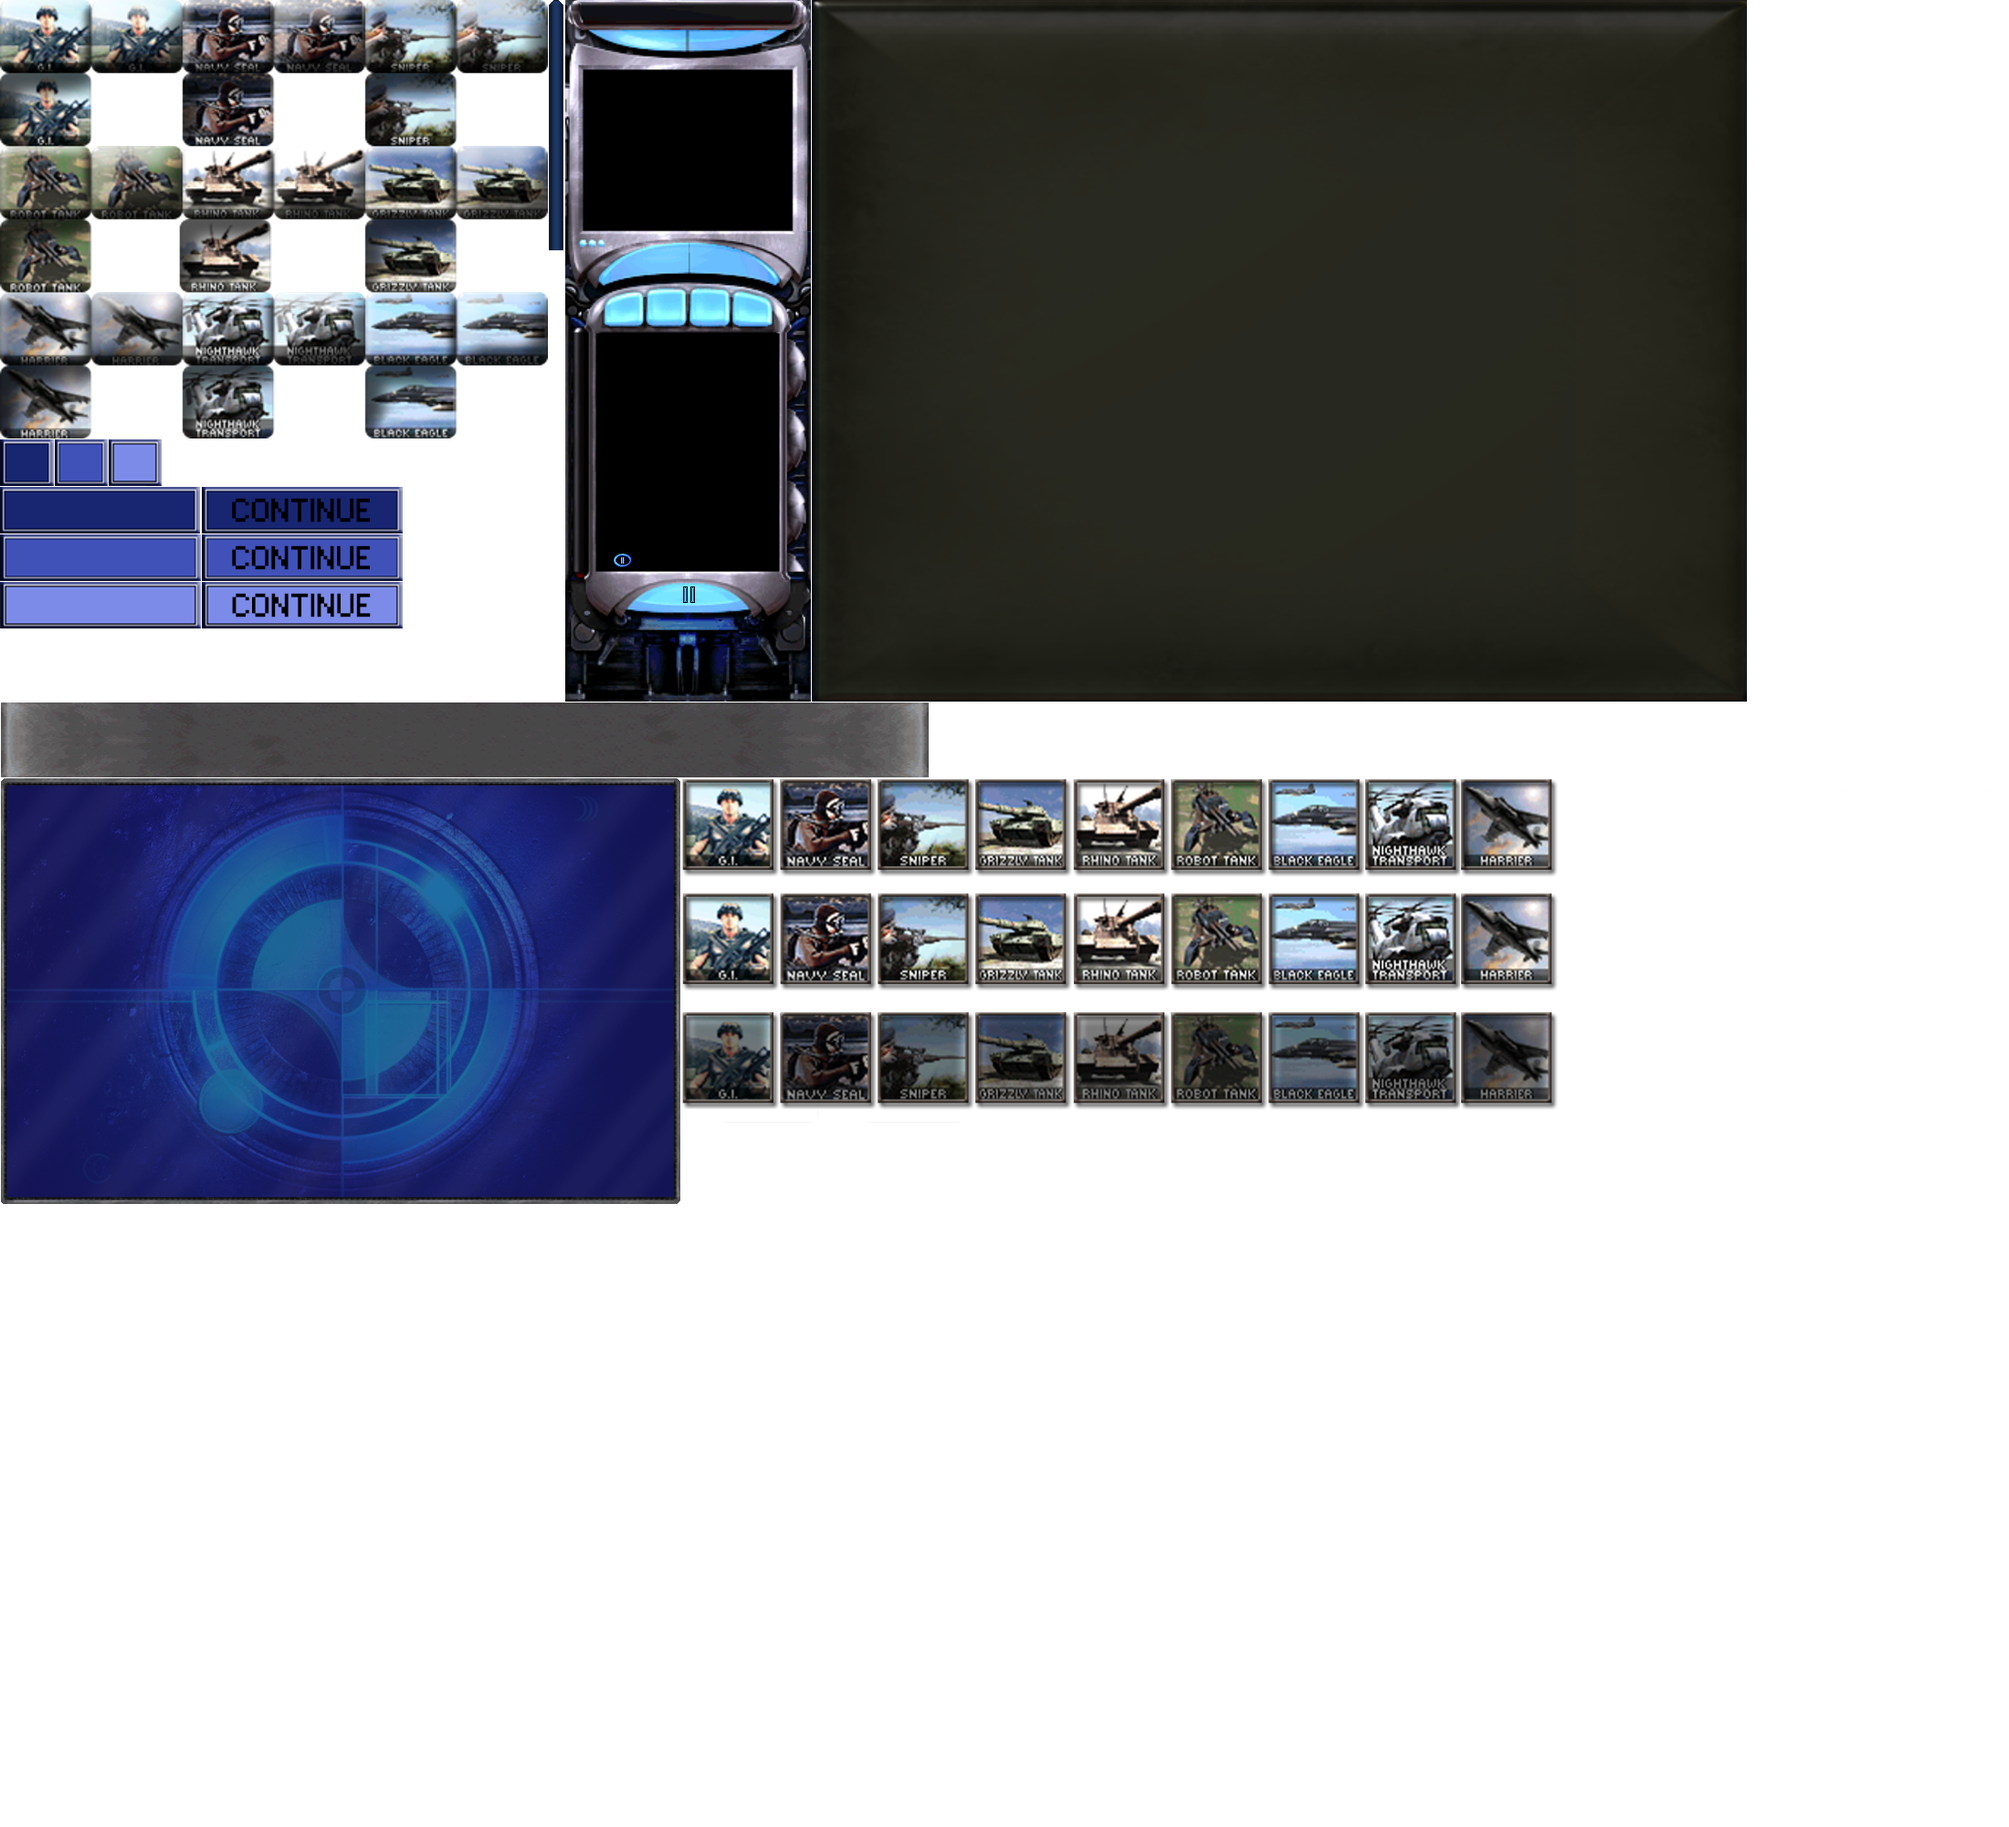
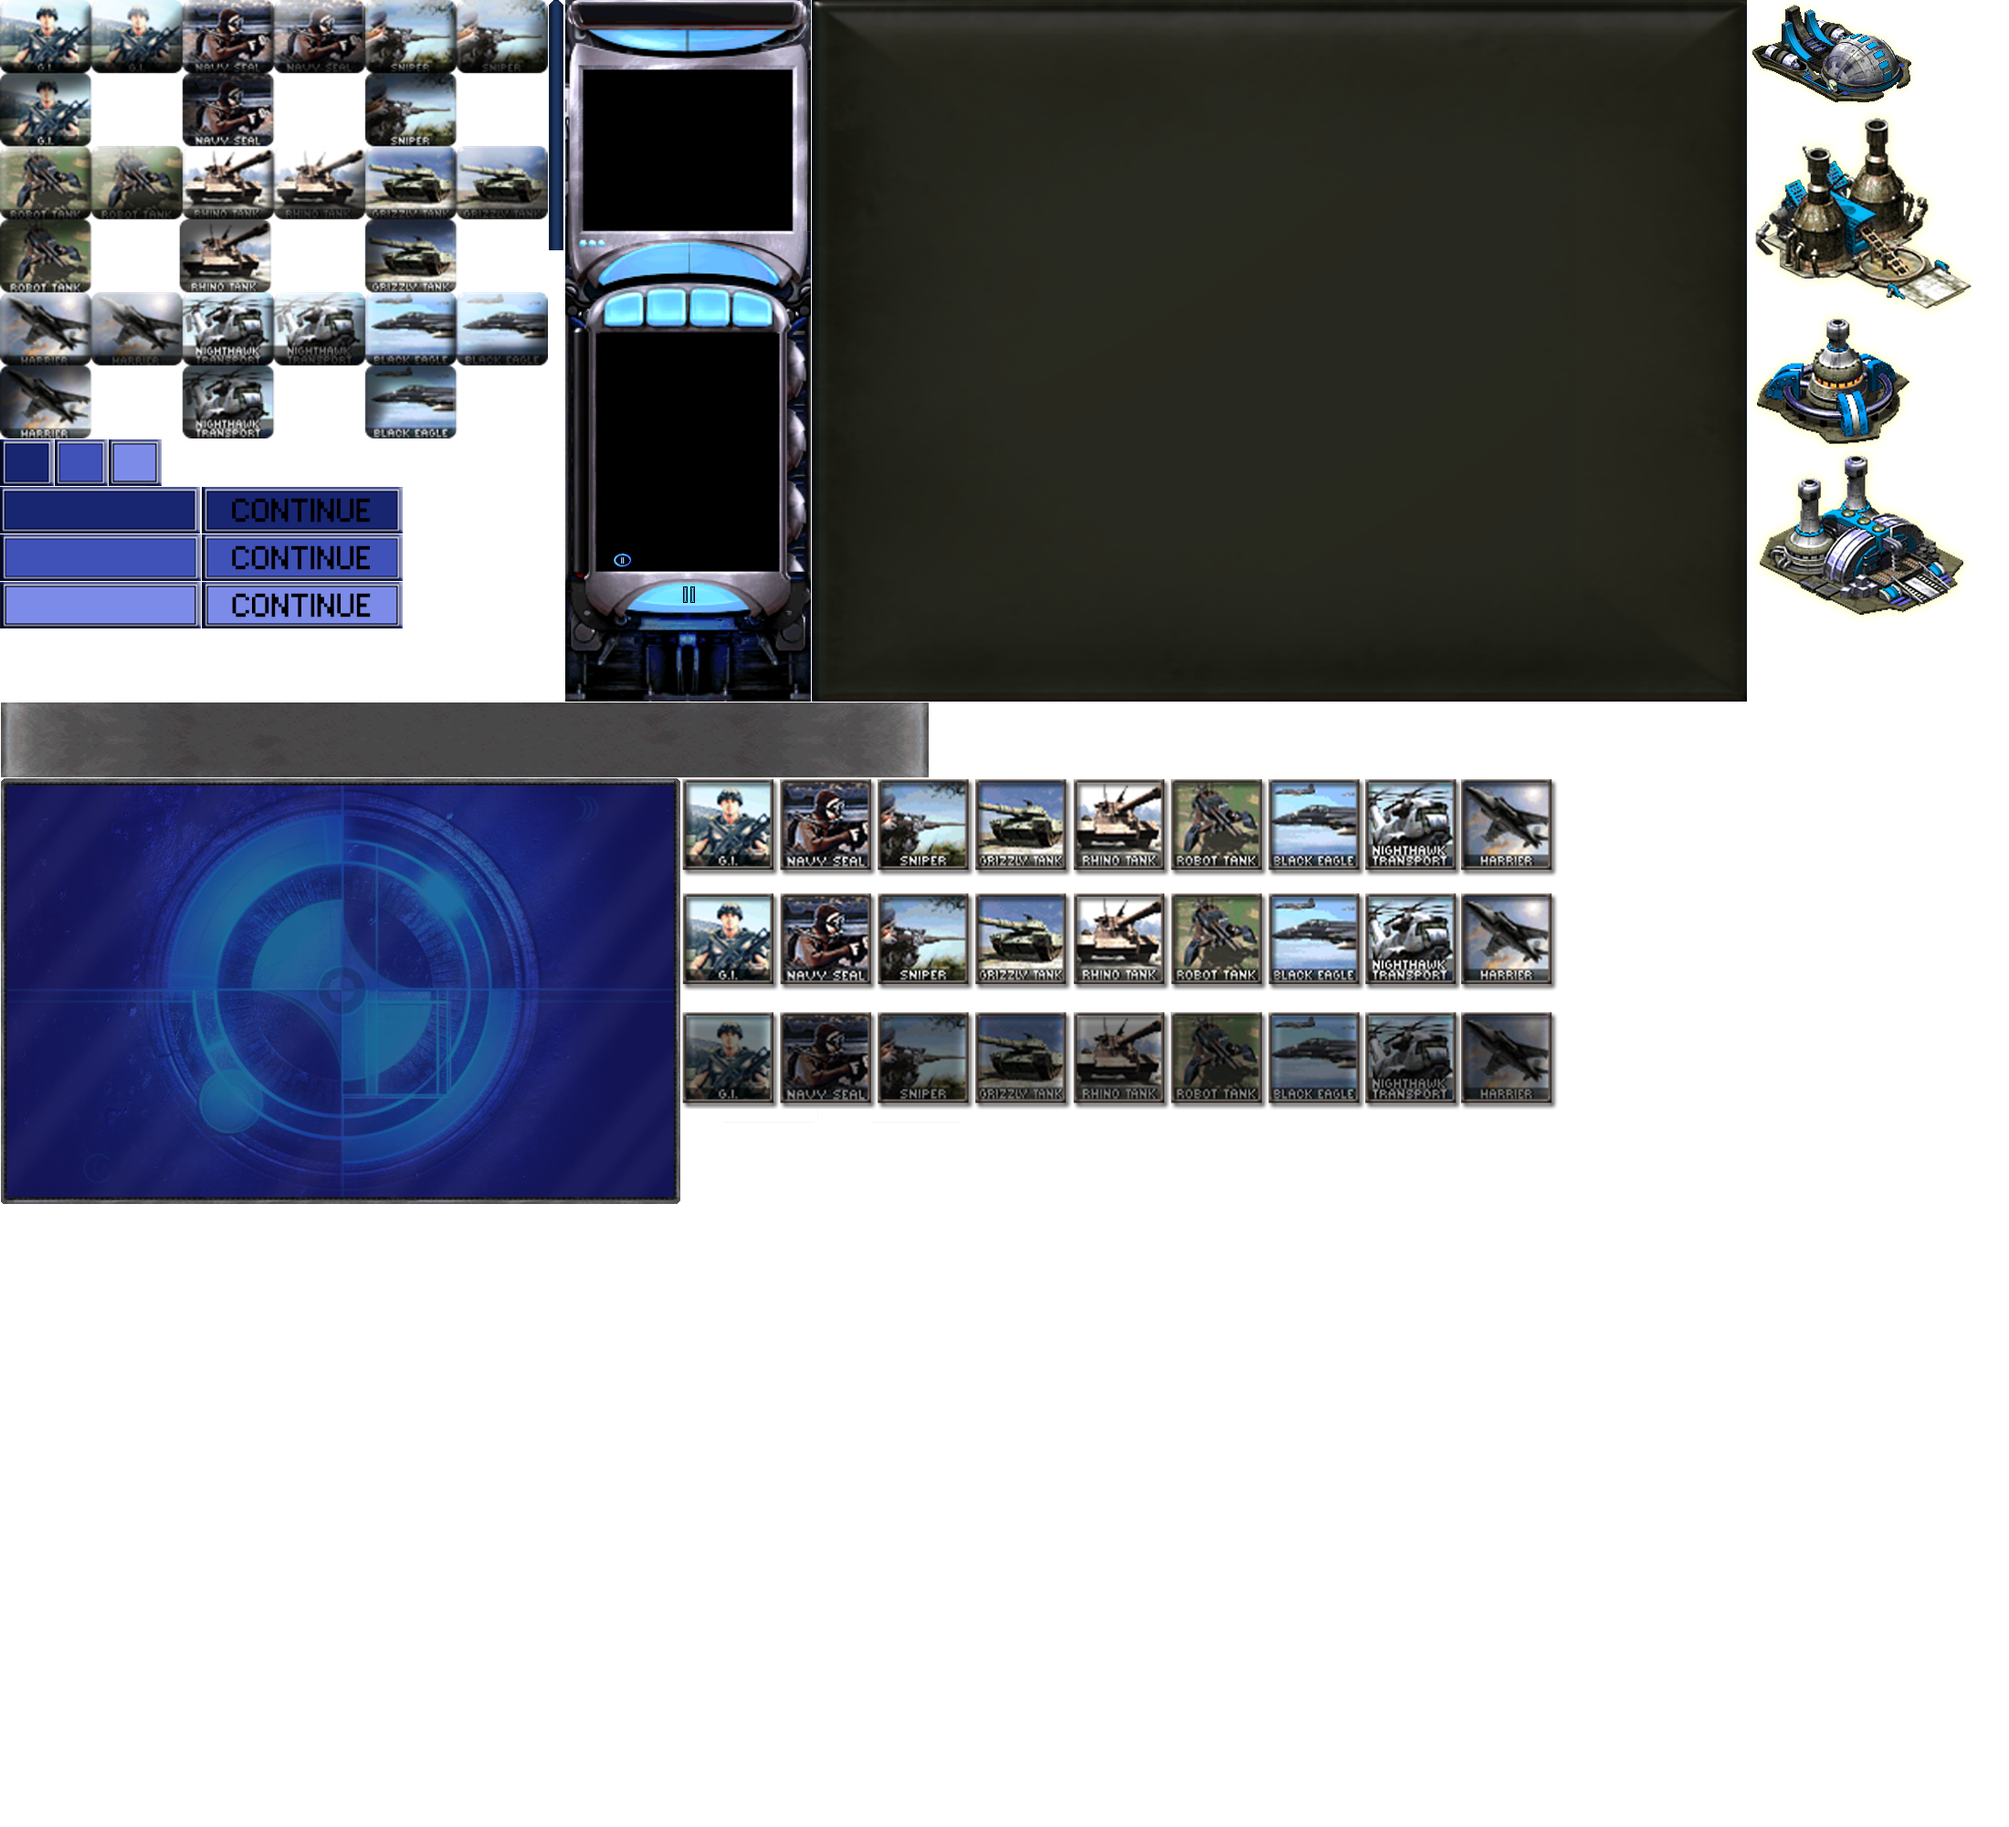
Added Lose Screen and Building Image

Changed region(s): [[0.8655, 0.0, 0.9891, 0.341]]

diff --git a/Motor2D/BattleScene.cpp b/Motor2D/BattleScene.cpp
@@ -24,6 +24,8 @@
 #include "EncounterTree.h"
 #include "EncounterNode.h"
 #include "UIImage.h"
+#include <time.h>
+#include <stdlib.h>
 
 
 BattleScene::BattleScene() : Scene()
@@ -68,13 +70,8 @@ bool BattleScene::Start()
 	test_core = App->entity_manager->CreateCore(1, { 30,750 }, test_deck, FACTION_RUSSIAN);
 	test_enemy_core = App->entity_manager->CreateCore(App->game_manager->GetEncounterTree()->GetCurrentNode()->GetEncounterType(), { 25,85 }, enemy_deck, FACTION_AMERICAN);
 
-	unit_panel = App->gui->CreateImage({ 755,0 }, { 619,0,269,768 });
-	/*unit_button_one = App->gui->CreateButton({ 35, 365 }, test_core->GetCard(CN_FIRST)->button.anim, unit_panel);
-	unit_button_two = App->gui->CreateButton({ 135, 365 }, test_core->GetCard(CN_SECOND)->button.anim, unit_panel);
-	unit_button_three = App->gui->CreateButton({ 35, 445 }, test_core->GetCard(CN_THIRD)->button.anim, unit_panel);
-	unit_button_four = App->gui->CreateButton({ 135, 445 }, test_core->GetCard(CN_FOURTH)->button.anim, unit_panel);*/
-
-	energy_bar = App->gui->CreateBar({ 764, 358 }, { 601,0,16,274 }, test_core->GetEnergy());
+	//Initialize UI
+	StartUI();
 
 	return true;
 }
@@ -126,19 +123,17 @@ bool BattleScene::Update(float dt)
 		{
 			state = BattleSceneState::WIN;
 			App->PauseGame();
+			App->gui->EnableElement((UIElement*)win_panel_one);
 		}
 	}
 	break;
 	case BattleScene::BattleSceneState::WIN:
 	{
-		if (App->input->GetKey(SDL_SCANCODE_RETURN) == KEY_DOWN)
-			App->transition_manager->CreateFadeTransition(2.0f, true, SceneType::MAP, White);
 	}
 	break;
 	case BattleScene::BattleSceneState::LOSE:
 	{
-		if (App->input->GetKey(SDL_SCANCODE_RETURN) == KEY_DOWN)
-			App->transition_manager->CreateFadeTransition(2.0f, true, SceneType::MAP, White);
+		
 	}
 	break;
 	default:
@@ -177,21 +172,58 @@ bool BattleScene::GUIEvent(UIElement * element, GUI_Event gui_event)
 {
 	if (gui_event == GUI_Event::LEFT_CLICK_DOWN) {
 		if (element == unit_button_one) {
-			CreateDrag(CN_FIRST, element);
+			CreateDrag(test_core->GetCard(CN_FIRST)->type, element);
 		}
 		else if (element == unit_button_two) {
-			CreateDrag(CN_SECOND, element);
+			CreateDrag(test_core->GetCard(CN_SECOND)->type, element);
 		}
 		else if (element == unit_button_three) {
-			CreateDrag(CN_THIRD, element);
+			CreateDrag(test_core->GetCard(CN_THIRD)->type, element);
 		}
 		else if (element == unit_button_four) {
-			CreateDrag(CN_FOURTH, element);
+			CreateDrag(test_core->GetCard(CN_FOURTH)->type, element);
 		}
+		else if (element == win_continue_one) {
+			App->gui->DisableElement((UIElement*)win_panel_one);
+			App->gui->EnableElement((UIElement*)win_panel_two);
+		}
+		else if (element == win_continue_two) {
+			if (win_unit_one->selected) {
+				//App->game_manager->AddCardToPlayerCollection(random_num[0]);
+				App->transition_manager->CreateFadeTransition(2.0f, true, SceneType::MAP, White);
+			}
+			else if (win_unit_two->selected) {
+				//App->game_manager->AddCardToPlayerCollection(random_num[1]);
+				App->transition_manager->CreateFadeTransition(2.0f, true, SceneType::MAP, White);
+			}
+			else if (win_unit_three->selected) {
+				//App->game_manager->AddCardToPlayerCollection(random_num[2]);
+				App->transition_manager->CreateFadeTransition(2.0f, true, SceneType::MAP, White);
+			}
+		}
+		else if (element == lose_continue) {
+			App->transition_manager->CreateFadeTransition(2.0f, true, SceneType::MAP, White);
+		}
+
 	}
 	else if (gui_event == GUI_Event::LEFT_CLICK_UP) {
 		if (element == current_drag) {
 			ReleaseDrag();
+		}
+	}
+	else if (gui_event == GUI_Event::RIGHT_CLICK_DOWN)
+	{
+		if (element == win_unit_one) {
+			win_unit_two->selected = false;
+			win_unit_three->selected = false;
+		}
+		else if (element == win_unit_two) {
+			win_unit_one->selected = false;
+			win_unit_three->selected = false;
+		}
+		else if (element == win_unit_three) {
+			win_unit_two->selected = false;
+			win_unit_one->selected = false;
 		}
 	}
 
@@ -201,7 +233,7 @@ bool BattleScene::GUIEvent(UIElement * element, GUI_Event gui_event)
 void BattleScene::CreateDrag(int num, UIElement* element)
 {
 	card_num = num;
-	//current_drag = App->gui->CreateImage({ 0,0 }, test_core->GetCard(card_num)->button.drag, element);
+	current_drag = App->gui->CreateImage({ 0,0 }, App->gui->LoadUIButton(num, "drag")[0], element);
 	current_drag->interactable = true;
 	current_drag->dragable = true;
 	current_drag->clipping = false;
@@ -217,4 +249,56 @@ void BattleScene::ReleaseDrag()
 	test_core->UseCard(card_num, { float(point.x),float(point.y) });
 	App->gui->DeleteElement(current_drag);
 	current_drag = nullptr;
+}
+
+void BattleScene::StartUI()
+{
+	//Generate random number
+
+	srand(time(NULL));
+	do {
+		random_num[0] = rand() % 9 + 1;
+		random_num[1] = rand() % 9 + 1;
+		random_num[2] = rand() % 9 + 1;
+	} while (random_num[0] != random_num[1] != random_num[2]);
+
+	//Game_UI
+
+	unit_panel = App->gui->CreateImage({ 755,0 }, { 619,0,269,768 });
+	unit_button_one = App->gui->CreateButton({ 35, 365 }, App->gui->LoadUIButton(test_core->GetCard(CN_FIRST)->type, "button"), unit_panel);
+	unit_button_two = App->gui->CreateButton({ 135, 365 }, App->gui->LoadUIButton(test_core->GetCard(CN_SECOND)->type, "button"), unit_panel);
+	unit_button_three = App->gui->CreateButton({ 35, 445 }, App->gui->LoadUIButton(test_core->GetCard(CN_THIRD)->type, "button"), unit_panel);
+	unit_button_four = App->gui->CreateButton({ 135, 445 }, App->gui->LoadUIButton(test_core->GetCard(CN_FOURTH)->type, "button"), unit_panel);
+
+	energy_bar = App->gui->CreateBar({ 764, 358 }, { 601,0,16,274 }, test_core->GetEnergy());
+
+	// End Game Screen Win
+	SDL_Rect button_rect[3];
+	button_rect[0] = { 221,533,220,51 };
+	button_rect[1] = { 221,585,220,51 };
+	button_rect[2] = { 221,637,220,51 };
+
+	win_panel_one = App->gui->CreateImage({ 139,150 }, { 1,852,744,466 });
+	win_panel_two = App->gui->CreateImage({ 139,150 }, { 1,852,744,466 });
+	win_text_one = App->gui->CreateLabel({ 30,30 }, "fonts/red_alert.ttf", 40, "Congratulations, you've conquered this zone and unlocked the next building!", { 255,232,2, 255 }, 710, win_panel_one);
+	win_text_two = App->gui->CreateLabel({ 30,30 }, "fonts/red_alert.ttf", 40, "Upgrade a troop or choose a new one to add to your deck", { 255,232,2, 255 }, 710, win_panel_two);
+	win_continue_one = App->gui->CreateButton({ 262,375 }, button_rect, win_panel_one);
+	win_continue_two = App->gui->CreateButton({ 262,375 }, button_rect, win_panel_two);
+
+	win_unit_one = App->gui->CreateButton({ 130,200 }, App->gui->LoadUIButton(random_num[0], "upgrade"), win_panel_two, true);
+	win_unit_two = App->gui->CreateButton({ 320,200 }, App->gui->LoadUIButton(random_num[1], "upgrade"), win_panel_two, true);
+	win_unit_three = App->gui->CreateButton({ 510,200 }, App->gui->LoadUIButton(random_num[2], "upgrade"), win_panel_two, true);
+
+	win_building = App->gui->CreateImage({ 260,160 }, App->gui->LoadUIImage(App->game_manager->GetEncounterTree()->GetCurrentNode()->GetEncounterType()), win_panel_one);
+
+	App->gui->DisableElement((UIElement*)win_panel_one);
+	App->gui->DisableElement((UIElement*)win_panel_two);
+
+	//End Game Screen Lose
+	lose_panel = App->gui->CreateImage({ 139,150 }, { 1,852,744,466 });
+	lose_text = App->gui->CreateLabel({ 30,30 }, "fonts/red_alert.ttf", 40, "The enemy troops have defeat yours! Allies have win the battle", { 255,232,2, 255 }, 710, lose_panel);
+	lose_continue = App->gui->CreateButton({ 262,375 }, button_rect, lose_panel);
+
+	App->gui->DisableElement((UIElement*)lose_panel);
+
 }

diff --git a/Motor2D/BattleScene.h b/Motor2D/BattleScene.h
@@ -51,6 +51,8 @@ private:
 	void CreateDrag(int num, UIElement* element);
 	void ReleaseDrag();
 
+	void StartUI();
+
 private:
 	enum class BattleSceneState {
 		SETUP,
@@ -67,8 +69,24 @@ private:
 	UIButton*		unit_button_four;
 	UIBar*			energy_bar;
 
+	UIImage*		win_panel_one;
+	UIImage*		win_panel_two;
+	UIButton*		win_continue_one;
+	UIButton*		win_continue_two;
+	UILabel*		win_text_one;
+	UILabel*		win_text_two;
+	UIImage*		win_building;
+	UIButton*		win_unit_one;
+	UIButton*		win_unit_two;
+	UIButton*		win_unit_three;
+
+	UIImage*		lose_panel;
+	UILabel*		lose_text;
+	UIButton*		lose_continue;
+
 	UIImage* current_drag;
 	int card_num;
+	int random_num[3];
 
 	uint max_energy;
 	uint current_energy;

diff --git a/Motor2D/TestingScene.h b/Motor2D/TestingScene.h
@@ -74,6 +74,9 @@ private:
 	UIButton*		win_unit_two;
 	UIButton*		win_unit_three;
 
+	UIImage*		lose_panel;
+	UILabel*		lose_text;
+	UIButton*		lose_continue;
 
 	UIImage* current_drag;
 	int card_num;
